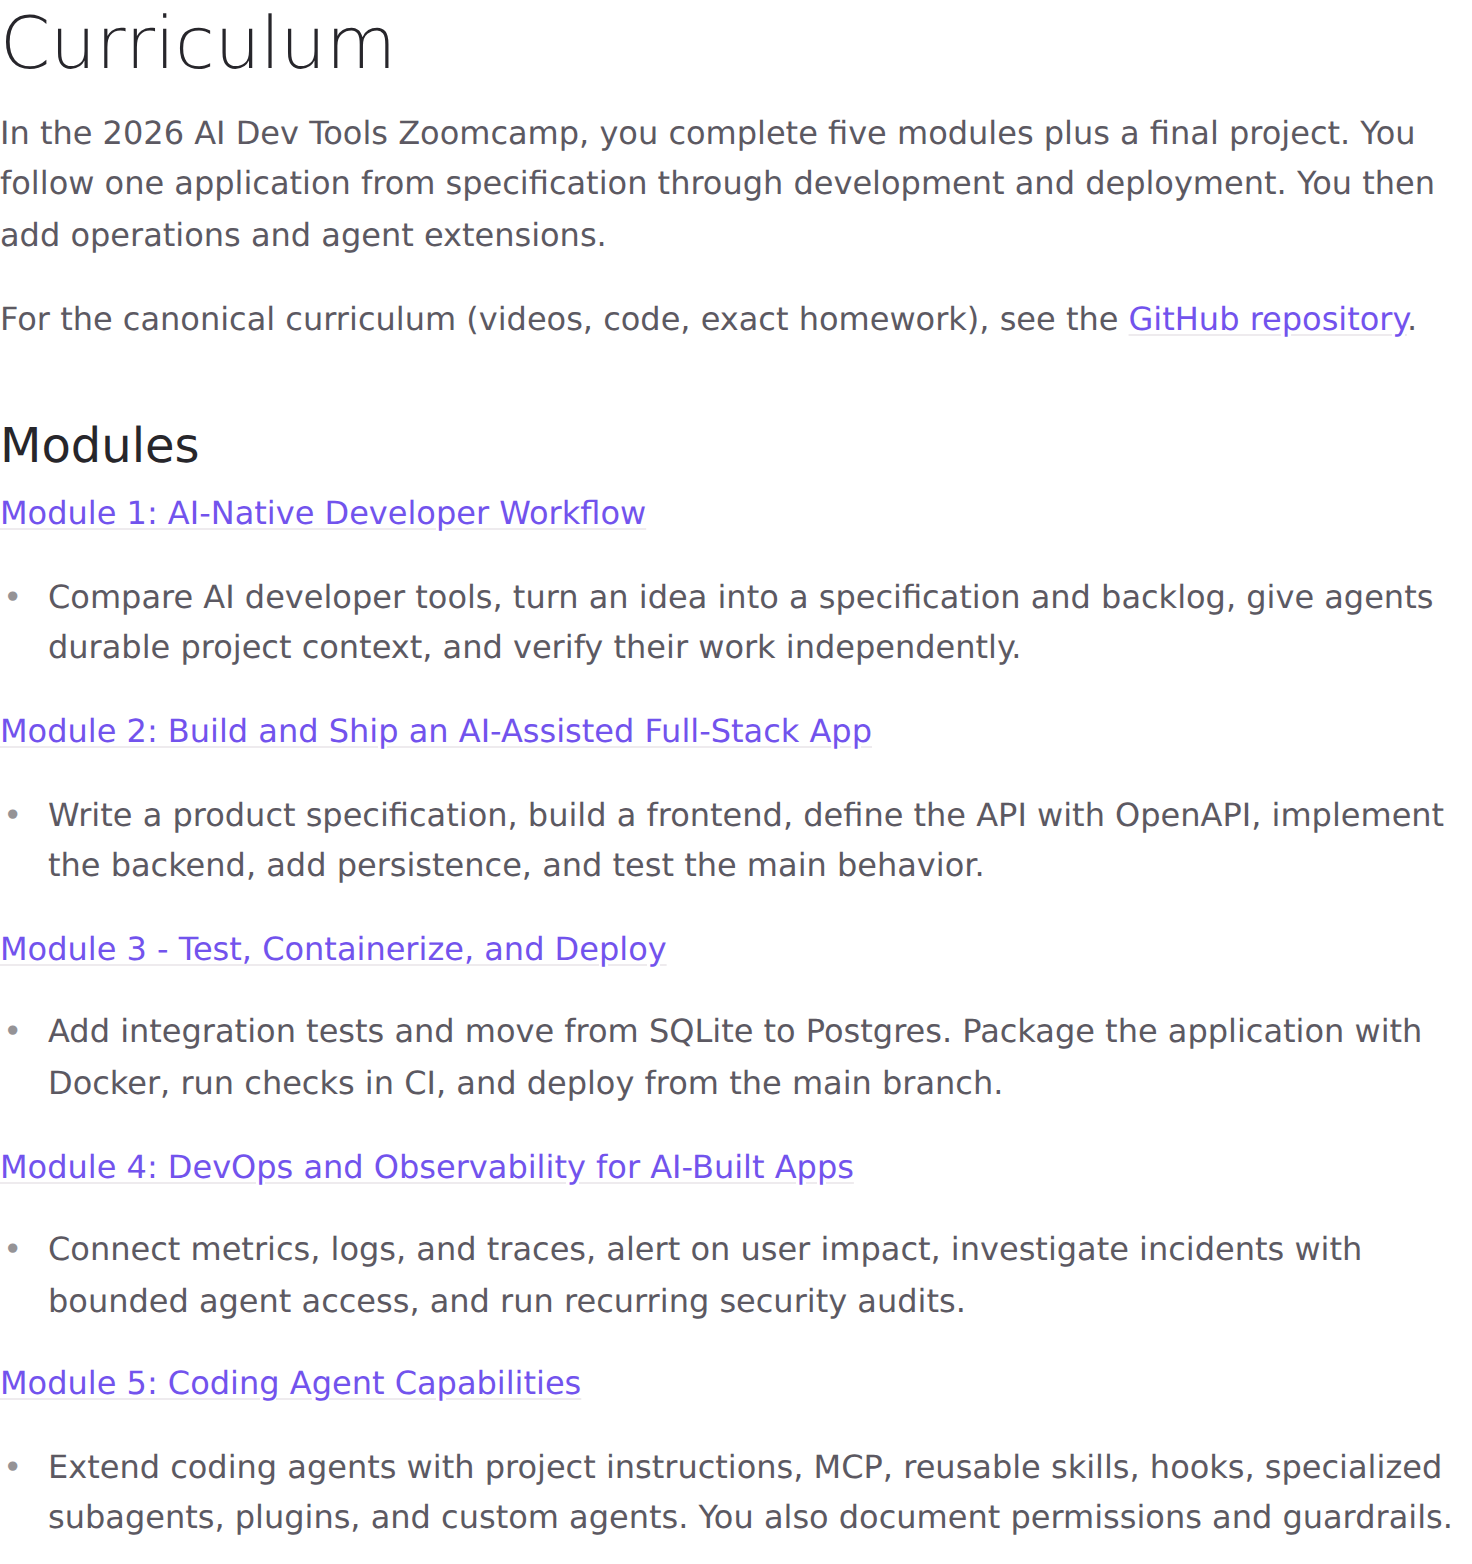
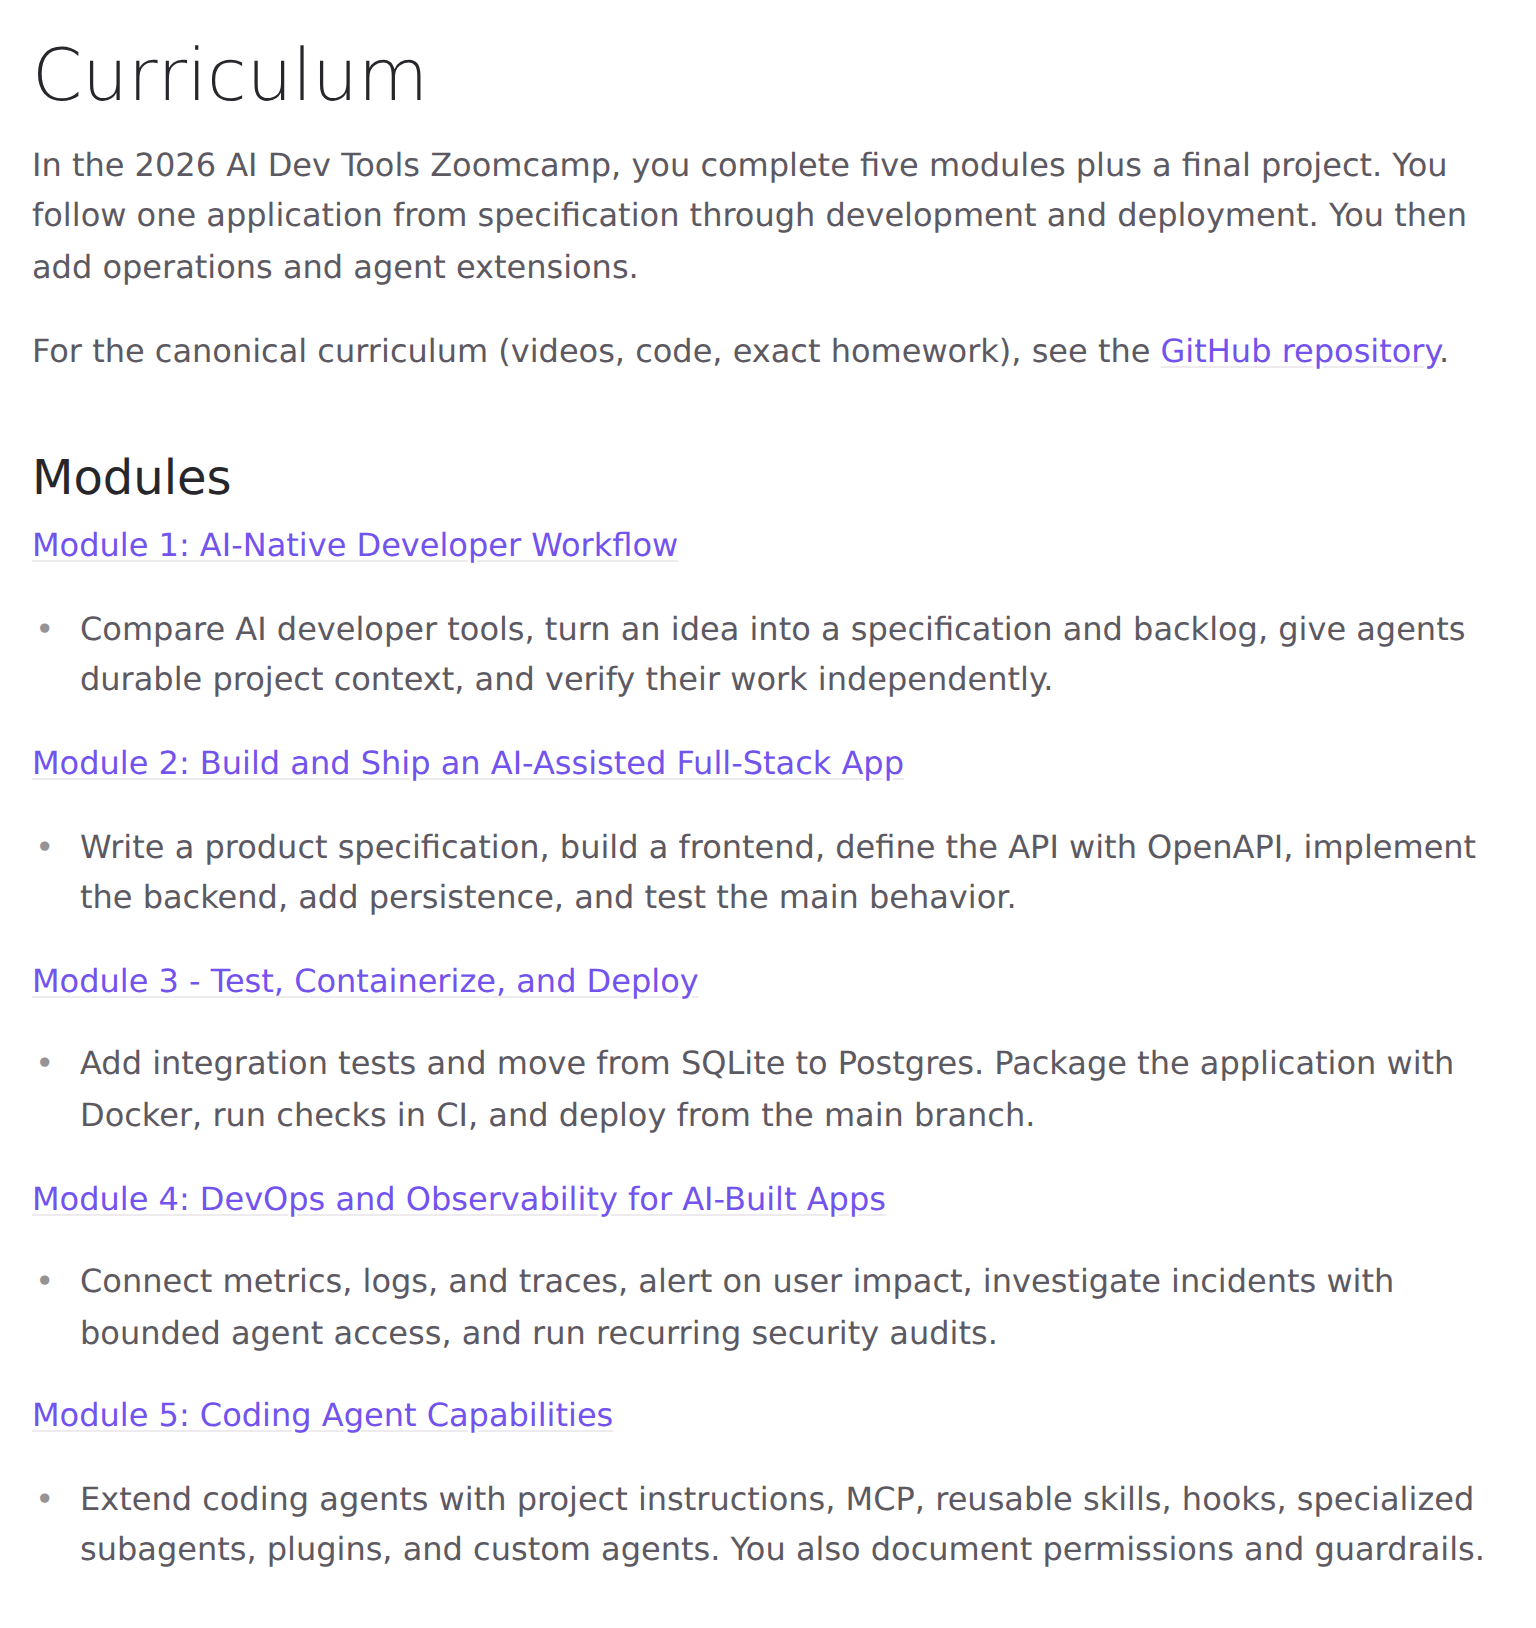
add course launch logistics and illustrations

diff --git a/articles/06-course-launch-2026.md b/articles/06-course-launch-2026.md
@@ -2,6 +2,7 @@
 
 From Idea to Production with AI Coding Agents
 
+[Join the AI Dev Tools Zoomcamp 2026 Course Launch](https://luma.com/tsiusx8s) on Monday, August 31, from 5:00 PM to 6:00 PM GMT+2.
 
 The 2026 cohort of [AI Dev Tools Zoomcamp](https://github.com/DataTalksClub/ai-dev-tools-zoomcamp) starts today (August 31). The course is free, and registration is open for the next few weeks.
 
@@ -31,7 +32,6 @@ Use these links to join the course and find the materials:
 - [Read the course documentation](https://datatalks.club/docs/courses/ai-dev-tools-zoomcamp/) for prerequisites, setup, logistics, and detailed guidance.
 - [Join the DataTalks.Club Slack](https://datatalks.club/slack.html) for talking to your peer course participants and join the `#course-ai-dev-tools-zoomcamp` channel.
 - [Join the Telegram channel](https://t.me/aidevtoolszoomcamp) for announcements and deadline updates.
-- [Save the YouTube playlist](https://www.youtube.com/playlist?list=PL3MmuxUbc_hLuyafXPyhTdbF4s_uNhc43)
 
 <figure>
   <img src="images/06-course-repository.png" alt="The AI Dev Tools Zoomcamp GitHub repository shows folders for the five course modules and a description of the course">
@@ -47,7 +47,7 @@ In this course, we use AI coding tools across the full software-development life
 - Part 2: [Build and Ship a Full-Stack App with AI Coding Assistants](https://aishippingblog.com/p/build-and-ship-a-full-stack-app-with)
 - Part 3: [Deploy a Full-Stack App with AI Coding Assistants](https://aishippingblog.com/p/deploy-a-full-stack-app-with-ai-coding)
 - Part 4: [DevOps and Observability for an AI-Built App](https://aishippingblog.com/p/devops-and-observability-for-an-ai)
-- Part 5: Coding Agent Building Blocks: Reusable Skills and Specialized Subagents
+- Part 5: [Coding Agent Building Blocks: Reusable Skills and Specialized Subagents](https://aishippingblog.com/p/coding-agent-building-blocks-reusable)
 
 <figure>
   <img src="images/06-course-docs.png" alt="The curriculum page lists five modules covering AI-native workflow, full-stack development, deployment, DevOps and observability, and coding agent capabilities">
@@ -134,7 +134,28 @@ Homework is optional for the certificate, but I recommend doing it. It gives you
 
 You can follow all the materials without joining the live cohort. If you study at your own pace, you can watch the same recordings, complete the homework for practice, and build a portfolio project. We offer graded submissions, peer review, and certificates during the live cohort.
 
-Read the [Zoomcamp logistics documentation](https://datatalks.club/docs/courses/zoomcamp-logistics/) for the detailed homework and project rules. It also explains deadlines, peer review, and certificates.
+For more information, read the guides to [course work](https://datatalks.club/docs/courses/zoomcamp-logistics/course-work/), [homework](https://datatalks.club/docs/courses/zoomcamp-logistics/homework/), and [joining a cohort after it starts](https://datatalks.club/docs/courses/zoomcamp-logistics/joining-mid-cohort/).
+
+## Leaderboard
+
+The leaderboard is optional: it doesn't affect certification. It gives you a way to track your progress alongside the cohort and recognizes contributions beyond homework. You can earn points for submitting homework on time, learning in public, contributing to the FAQ, completing projects, and reviewing peer projects.
+
+The screenshot below shows the [AI Dev Tools Zoomcamp 2025 leaderboard](https://courses.datatalks.club/ai-dev-tools-2025/leaderboard). Your leaderboard profile is anonymous by default, but you can make your name, bio, and links public from your enrollment profile.
+
+<figure>
+  <img src="images/06-leaderboard-2025.png" alt="The 2025 AI Dev Tools Zoomcamp leaderboard lists participant names, positions, and scores">
+  <figcaption>Last year's leaderboard recognized steady course progress and community contributions</figcaption>
+</figure>
+
+For more information, read the [leaderboard documentation](https://datatalks.club/docs/courses/zoomcamp-logistics/leaderboard/) for the point categories, timing, and profile options.
+
+## Learn in public
+
+As you work through the course, share what you build and learn. A short post about a useful idea, a problem you solved, or a screenshot of your project reinforces the material and creates a public record of your progress. It can also bring feedback, new connections, and opportunities.
+
+After publishing a post, submit its link through the course platform with your homework, project, or peer review. Each accepted link earns a leaderboard point.
+
+For more information, read the [learning-in-public guide](https://datatalks.club/docs/courses/zoomcamp-logistics/learning-in-public/) for the submission process, post ideas, and examples.
 
 ## Final project and certificate
 
@@ -151,10 +172,19 @@ Your project should include:
 
 You also document how you used AI. Show how you described tasks and gave the agent context. Explain how you reviewed generated code, tested the result, and handled permissions. In the later modules, you add operations, security, and agent-extension work around the application.
 
-Homework isn't required for the certificate. To earn the certificate, you need to submit a passing final project during the live cohort and complete the required peer reviews on time. Check the [course platform](https://courses.datatalks.club/ai-dev-tools-2026/) for the exact project and review deadlines. Read the [certification documentation](https://datatalks.club/docs/courses/zoomcamp-logistics/certification/) for the general certificate workflow.
+Homework isn't required for the certificate. To earn the certificate, you need to submit a passing final project during the live cohort and complete the required peer reviews on time. Check the [course platform](https://courses.datatalks.club/ai-dev-tools-2026/) for the exact project and review deadlines.
 
-- Project 1: submit by 2026-10-19 and complete peer reviews by 2026-10-26.
-- Project 2: submit by 2026-11-09 and complete peer reviews by 2026-11-16.
+- [Project 1](https://courses.datatalks.club/ai-dev-tools-2026/project/project1): submit by 2026-10-19 and complete peer reviews by 2026-10-26.
+- [Project 2](https://courses.datatalks.club/ai-dev-tools-2026/project/project2): submit by 2026-11-09 and complete peer reviews by 2026-11-16.
+
+For more information, read the [course-specific project requirements](https://datatalks.club/docs/courses/ai-dev-tools-zoomcamp/project/), the [peer-review guide](https://datatalks.club/docs/courses/zoomcamp-logistics/peer-review/), and the [certification guide](https://datatalks.club/docs/courses/zoomcamp-logistics/certification/).
+
+For an example, open the [Rick Astley certificate from the 2025 course](https://certificate.datatalks.club/ai-dev-tools/2025/fe629854d45c559e9c10b3b8458ea392fdeb68a9.pdf) as a PDF.
+
+<figure>
+  <img src="images/06-certificate-2025.png" alt="A 2025 AI Dev Tools Zoomcamp statement of accomplishment awarded to Rick Astley">
+  <figcaption>Participants who complete a passing project and the required peer reviews earn a certificate</figcaption>
+</figure>
 
 ## Course links
 

diff --git a/articles/screenshot-workflow.md b/articles/screenshot-workflow.md
@@ -6,7 +6,7 @@ Follow the same sequence for every screenshot:
 
 1. Introduce the subject in the article.
 2. Capture the rendered page without browser chrome.
-3. Crop the image to the evidence the reader needs.
+3. Crop the image to the evidence the reader needs, keeping a comfortable margin around it.
 4. Save it under `articles/images/` with the article-number prefix.
 5. Insert a `<figure>` immediately after the text it supports.
 6. Add descriptive alt text and a separate takeaway in `<figcaption>`.
@@ -48,6 +48,8 @@ Choose the crop based on the statement the figure supports:
 Choose a wide viewport for article screenshots. A width between 1400 and 1600 pixels gives text and side-by-side panels enough room. Crop the result to roughly 1200 to 1600 pixels wide so it stays readable when the article scales it down.
 
 The final crop should prove or clarify the preceding text. It shouldn't introduce a subject that the article hasn't mentioned yet.
+
+Leave roughly 20 to 40 pixels of internal space around the relevant content. If the content is inside a card or table, keep whitespace outside its full border instead of placing the border directly against the image edge. End a table crop after a complete row and its bottom rule. Don't cut through the next row.
 
 ## Capture with Chromium and crop with ImageMagick
 
@@ -136,11 +138,13 @@ with sync_playwright() as playwright:
         "element.parentElement.nextElementSibling.getBoundingClientRect().bottom"
     )
 
+    padding = 32
+
     clip = {
-        "x": main["x"],
-        "y": main["y"],
-        "width": main["width"],
-        "height": module_5_bottom - main["y"] + 10,
+        "x": main["x"] - padding,
+        "y": main["y"] - padding,
+        "width": main["width"] + 2 * padding,
+        "height": module_5_bottom - main["y"] + 2 * padding,
     }
 
     page.screenshot(
@@ -166,6 +170,8 @@ Open the PNG at its original resolution and check each item:
 - the text has finished loading
 - no menus, cookie banners, or browser controls cover the content
 - no heading or panel edge is clipped
+- cards and tables have whitespace outside every visible border
+- tables end after a complete row rather than halfway through one
 - blank forms and unrelated navigation are removed
 - the crop has enough context to make sense
 - the image remains readable at the article's display width
